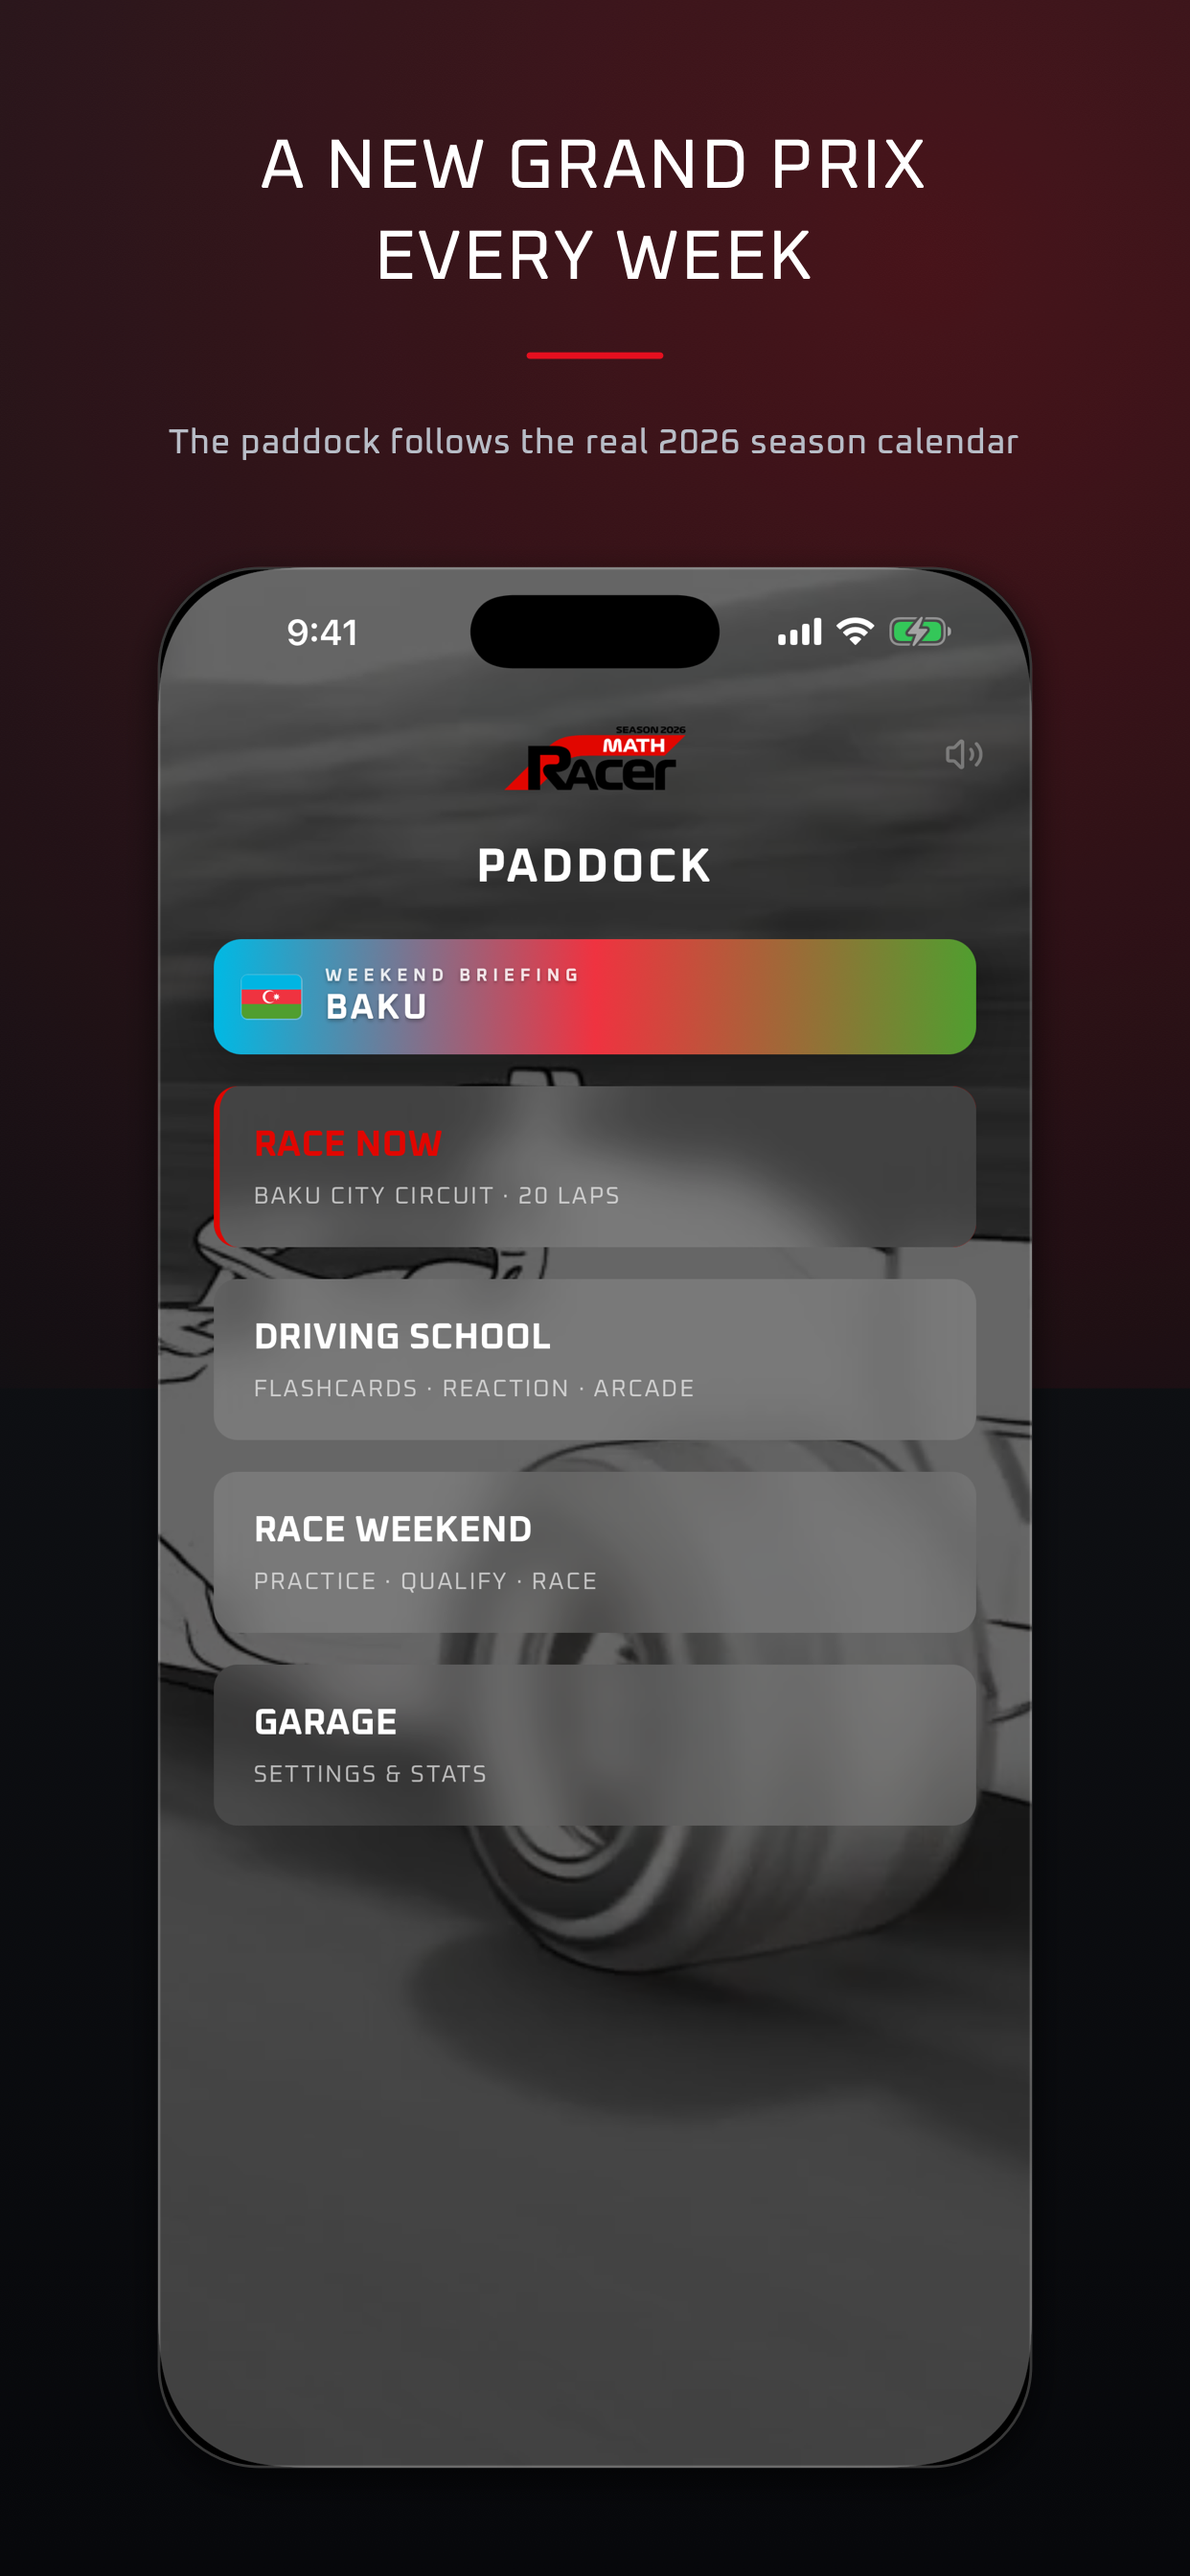
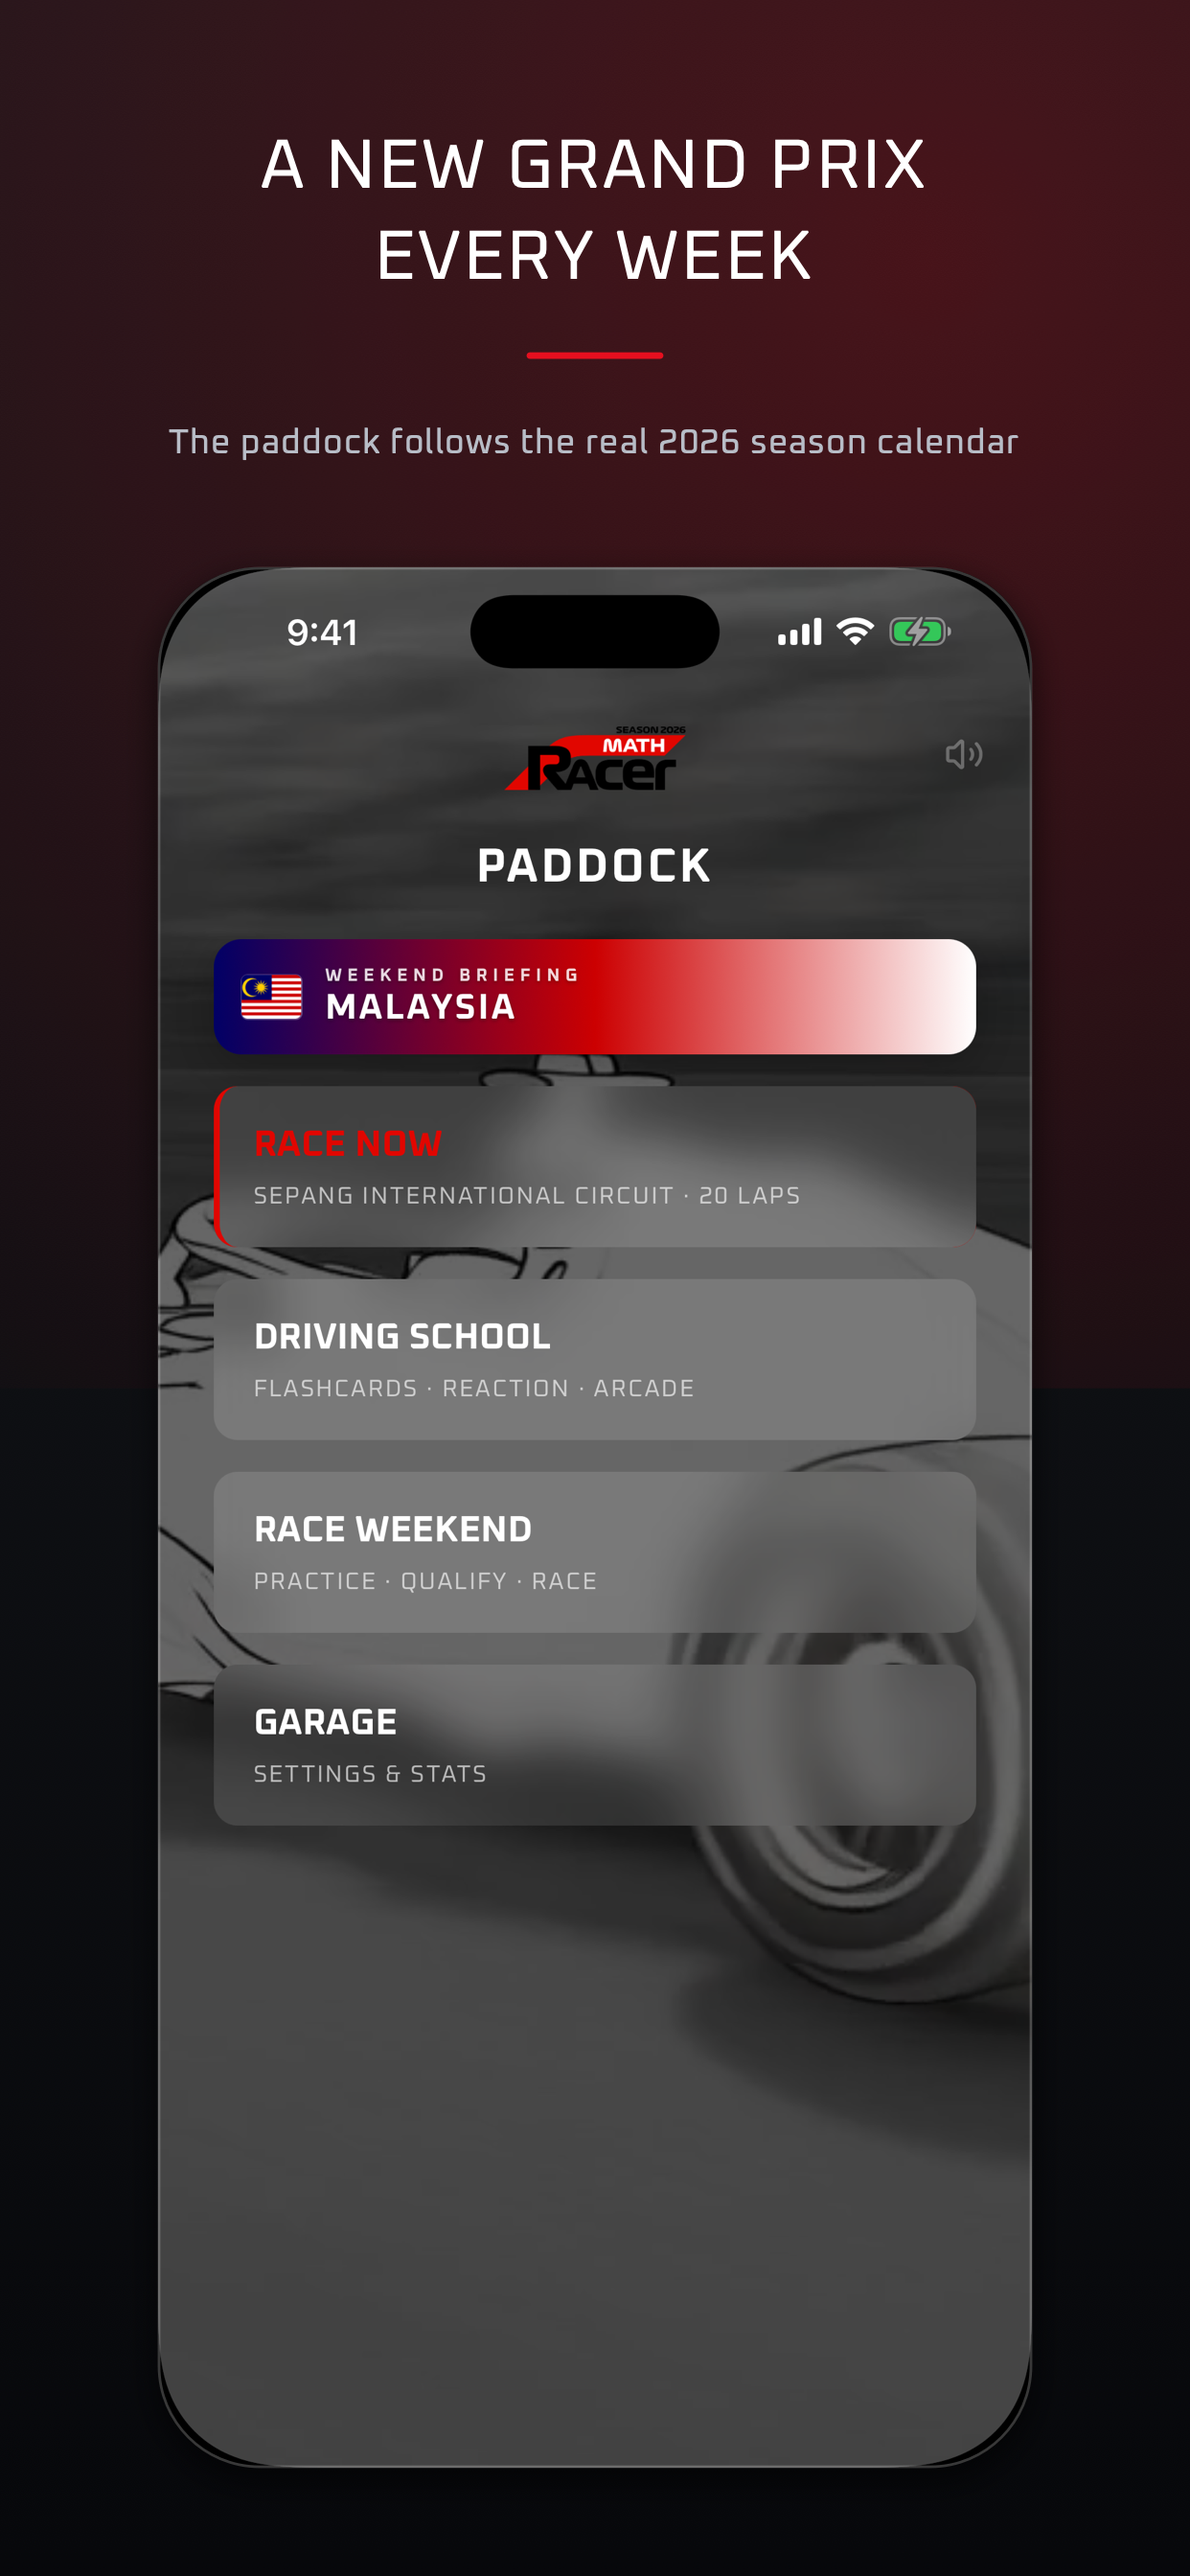
Retake the App Store cards for Malaysia
The cards that show the current Grand Prix still showed Round 15 / Baku.
Recaptured on the iOS 26.5 simulators with 1.3.16:

- iPhone 03_grand_prix, 04_paddock
- iPad 01_race (header chip), 03_grand_prix, 04_paddock

README: last captured on Round 16 / Malaysia, plus notes on picking a
frame from the looping menu backgrounds, clearing the Garage "NEW" badge,
and leaving Grand Prix practice by the header logo (it has no pause).

diff --git a/app_store/README.md b/app_store/README.md
@@ -24,7 +24,7 @@ people see on the product page.
 | `07_superlicence` | Superlicence granted. | Finish Driving School and it joins your trophy cabinet |
 
 `03`, `04` and the iPad `01` (its header chip) show the current Grand Prix. They
-were last captured on Round 15 / Baku. `05` shows the Reaction Test target
+were last captured on Round 16 / Malaysia. `05` shows the Reaction Test target
 (`REACTION_LICENCE_MS`, 0.40s), so retake it if that changes.
 
 ## Regenerating
@@ -58,6 +58,13 @@ Captions use Oxanium, the same font as the app.
   Simulator.app isn't installed here, and on iPadOS 26 an app's own orientation
   lock turns into a floating window instead of a rotation. Panel taps stay in
   portrait coordinates after rotating: `x = landscapeY`, `y = 1376 − landscapeX`
-  (points), for the rotation used on 2026-09-21.
+  (points), for the rotation used on 2026-09-21 and 2026-09-28. `simctl io
+  screenshot` still returns the frame upright at 2752 × 2064. Grand Prix practice
+  has no pause button, so leave the session by tapping the header logo: it goes
+  to the title screen without finishing.
+- **Paddock and setup cards (`03`, `04`)**: the backgrounds are looping videos.
+  Take a burst of screenshots about a second apart and pick a frame close to the
+  previous card's. Before capturing, open Trophies once if the Garage card shows
+  an "N NEW" badge, and switch sound on so the speaker icon isn't crossed out.
 - **App opens in a window** on the iPad (window controls top-left, wallpaper
   around it): tap the controls, then the green button, and it stays full screen.
